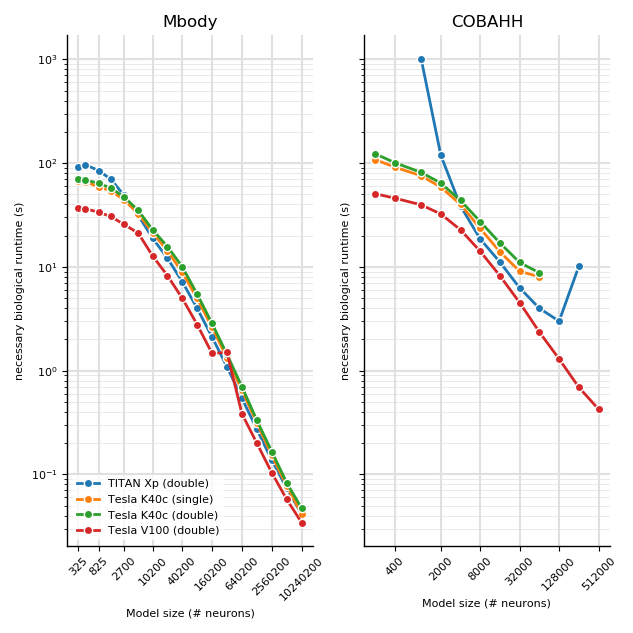
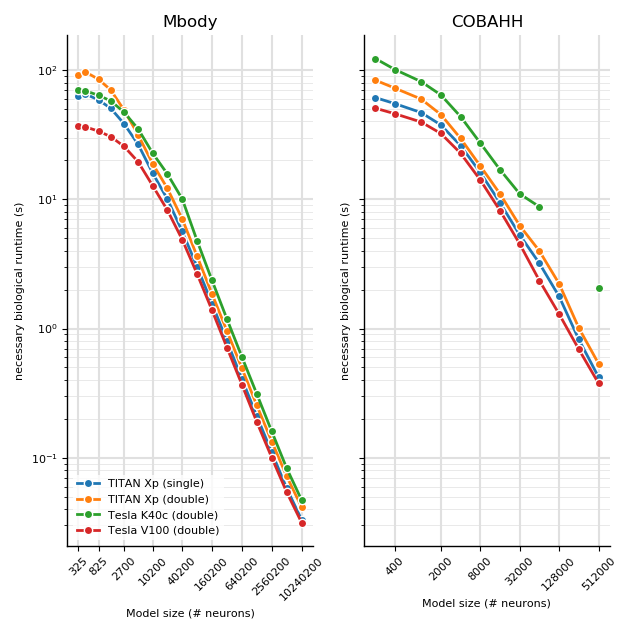
Update "necessary runtime" plots

diff --git a/plot_comparisons.py b/plot_comparisons.py
@@ -136,28 +136,43 @@ def plot_total_comparisons_only_GPU(benchmarks, reference_benchmarks, GPU_names,
         ax.legend(loc='upper left', frameon=True, edgecolor='none')
 
 
-
 def plot_necessary_runtime_across_gpus(benchmarks, reference_benchmark,
                                        labels, ax, title, legend=False):
     used_neuron_values = None
     for benchmark, label in zip(benchmarks, labels):
         benchmark = benchmark.loc[(benchmark['device'] == 'genn') &
                                   (benchmark['n_threads'] == 0)]
-        benchmark.sort_values(by='n_neurons')
+
+        # Merge the results from the two algorithms
+        merged = pd.concat([benchmark['n_neurons'],
+                            benchmark['total']['amin'],
+                            benchmark['duration_run_rel']['amin']],
+                           axis=1)
+        print(len(merged))
+        merged.columns = ['n_neurons', 'total', 'duration_run_rel']
+        grouped = merged.groupby(['n_neurons'])
+        benchmark = grouped.agg([np.min]).reset_index()
+        print(len(benchmark))
         if used_neuron_values is None:
             used_neuron_values = benchmark['n_neurons'].values
-        reference_benchmark.sort_values(by='n_neurons')
-        variable_time_gpu = benchmark['duration_run']['amin'].values
+        reference_benchmark = reference_benchmark.sort_values(by='n_neurons')
+        variable_time_gpu = benchmark['duration_run_rel']['amin'].values
         fixed_time_gpu = benchmark['total']['amin'].values - variable_time_gpu
-        variable_time_cpu = reference_benchmark['duration_run']['amin'].values
+        variable_time_cpu = reference_benchmark['duration_run_rel']['amin'].values
         fixed_time_cpu = reference_benchmark['total']['amin'].values - variable_time_cpu
         # Check assumptions
+        print(label)
+        print(variable_time_cpu)
+        print(variable_time_gpu)
+        print(fixed_time_cpu)
+        print(fixed_time_gpu)
+        print()
         necessary = (fixed_time_cpu - fixed_time_gpu)/(variable_time_gpu - variable_time_cpu)
         # If GPU takes longer per simulated second, no way to get a faster sim
         necessary[variable_time_gpu > variable_time_cpu] = np.NaN
         # Fixed time is already lower for GPU
         necessary[fixed_time_gpu < fixed_time_cpu] = 0
-        ax.plot(np.log(benchmark['n_neurons']).values, necessary, 'o-',
+        ax.plot(np.log(benchmark['n_neurons']).unique(), necessary, 'o-',
                 mec='white', label=label)
 
     # Make sure we show the xtick label for the highest value
@@ -191,8 +206,8 @@ if __name__ == '__main__':
                            'benchmark_results/2018-09-21_inf900777',
                            'benchmark_results/2018-09-25_jwc09n012/']
 
-    float_dtypes_per_benchmark = [('float64', ),
-                                  ('float32', 'float64'),
+    float_dtypes_per_benchmark = [('float32', 'float64'),
+                                  ('float64', ),
                                   ('float64', )]
     reference_dir = 'benchmark_results/2018-09-13_c6a4ae8d7e8b'
     machine_names = []
@@ -323,12 +338,19 @@ if __name__ == '__main__':
                                                 figsize=(6.33, 6.33))
         for ax, title, fname in [(ax_right, 'COBAHH', 'benchmarks_COBAHH.txt'),
                                  (ax_left, 'Mbody', 'benchmarks_Mbody_example.txt')]:
-            benchmarks = [
-                mean_and_std_fixed_time(load_benchmark(dirname, fname),
-                                        monitor=False,
-                                        float_dtype=float_dtype)
-                for dirname, float_dtypes in zip(benchmark_dirs_pre, float_dtypes_per_benchmark)
-                for float_dtype in float_dtypes]
+            benchmarks_pre = [mean_and_std_fixed_time(load_benchmark(dirname, fname),
+                                                      monitor=monitor, float_dtype=float_dtype)
+                              for dirname, float_dtypes in zip(benchmark_dirs_pre, float_dtypes_per_benchmark)
+                              for float_dtype in float_dtypes]
+            benchmarks_post = [mean_and_std_fixed_time(load_benchmark(dirname, fname),
+                                                      monitor=monitor, float_dtype=float_dtype)
+                              for dirname, float_dtypes in zip(benchmark_dirs_post, float_dtypes_per_benchmark)
+                              for float_dtype in float_dtypes]
+
+            for benchmark_pre, benchmark_post in zip(benchmarks_pre, benchmarks_post):
+                benchmark_pre['algorithm'] = 'pre'
+                benchmark_post['algorithm'] = 'post'
+            benchmarks = [pd.concat([b1, b2]) for b1, b2 in zip(benchmarks_pre, benchmarks_post)]
             reference = mean_and_std_fixed_time(
                 load_benchmark(reference_dir, fname),
                 monitor=False,
